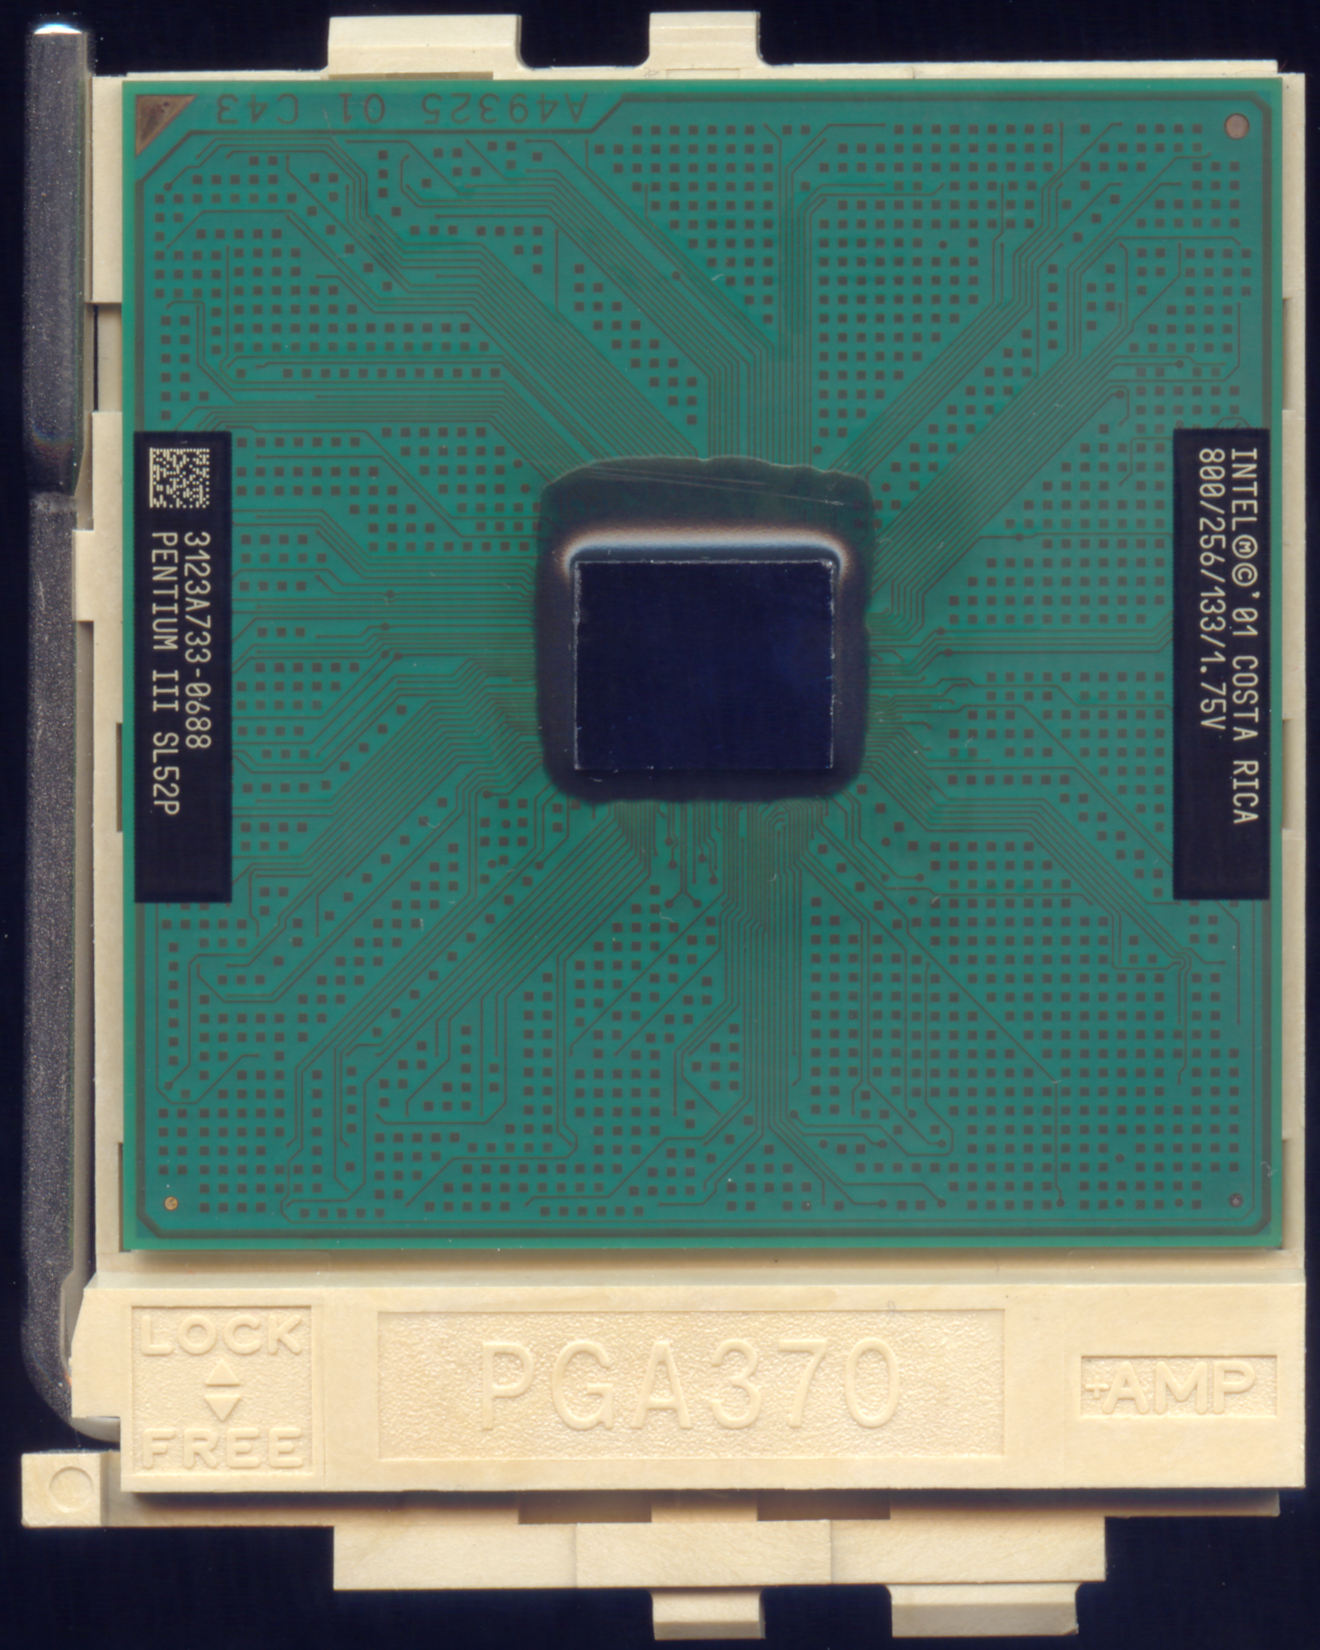
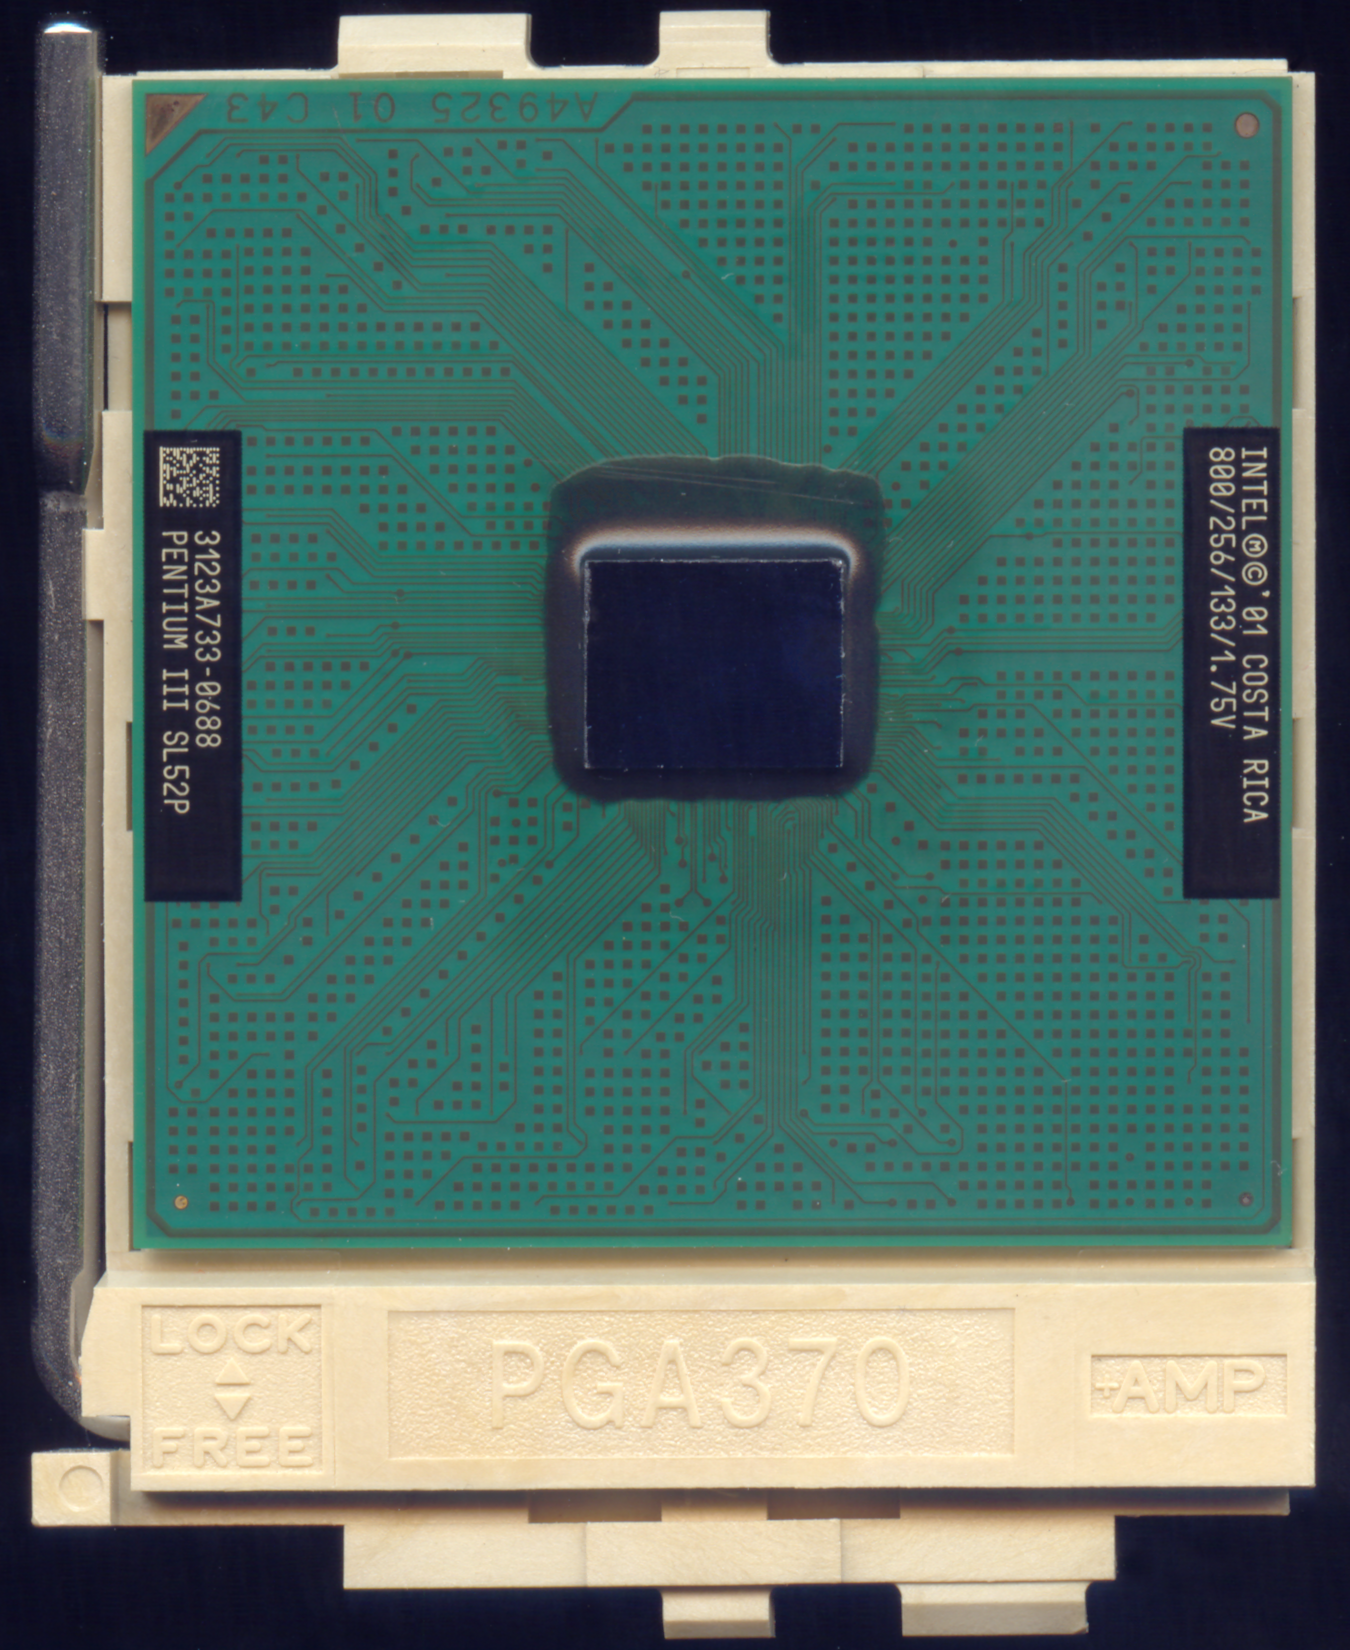
adjustments

diff --git a/css/styles.css b/css/styles.css
@@ -33,18 +33,17 @@ body.inverse a:active { color: skyblue; }
     P II     = 139mm
 */
 
-body.inverse ul.processors img.w30 {  width: 135px; }
-body.inverse ul.processors img.w35 {  width: 160px; }
-body.inverse ul.processors img.w37 {  width: 170px; }
-body.inverse ul.processors img.w45 {  width: 205px; }
-body.inverse ul.processors img.w50 {  width: 225px; }
-body.inverse ul.processors img.w52 {  width: 235px; }
-body.inverse ul.processors img.w55 {  width: 250px; }
-body.inverse ul.processors img.w68 {  width: 305px; }
-body.inverse ul.processors img.w82 {  width: 370px; }
-body.inverse ul.processors img.w125 {  width: 585px; }
-body.inverse ul.processors img.w139 {  width: 625px; }
-
+body.inverse ul.processors img.w30 { width: 135px; }
+body.inverse ul.processors img.w35 { width: 160px; }
+body.inverse ul.processors img.w37 { width: 170px; }
+body.inverse ul.processors img.w45 { width: 205px; }
+body.inverse ul.processors img.w50 { width: 225px; }
+body.inverse ul.processors img.w52 { width: 235px; }
+body.inverse ul.processors img.w55 { width: 250px; }
+body.inverse ul.processors img.w68 { width: 305px; }
+body.inverse ul.processors img.w82 { width: 370px; }
+body.inverse ul.processors img.w125 { width: 585px; }
+body.inverse ul.processors img.w139 { width: 625px; }
 
 @media screen and (max-width: 1024px) {
     nav { width: 100%; padding: 10px 20px; }

diff --git a/museum.html b/museum.html
@@ -199,8 +199,8 @@
                     </li>
                     <li>
                         <h2>my own desktop processors <3</h2>
-                        <img src="img/processors/own/01.png" class="w55" />
-                        <img src="img/processors/own/02.png" class="w55" />
+                        <img src="img/processors/own/01.png" class="w50" />
+                        <img src="img/processors/own/02.png" class="w50" />
                     </li>
                 </ul>
         </main>
